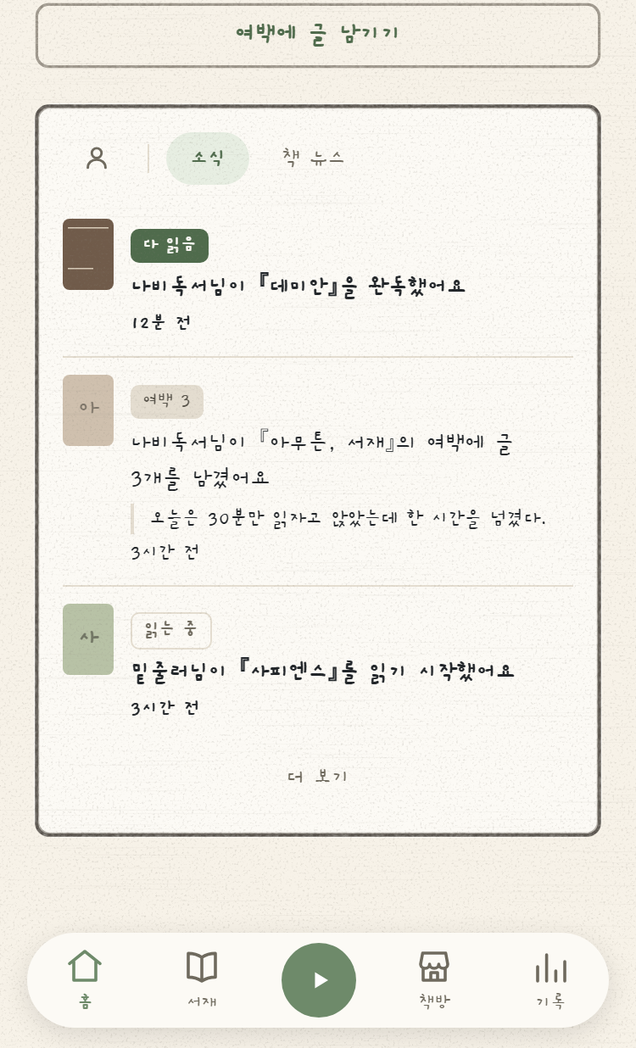
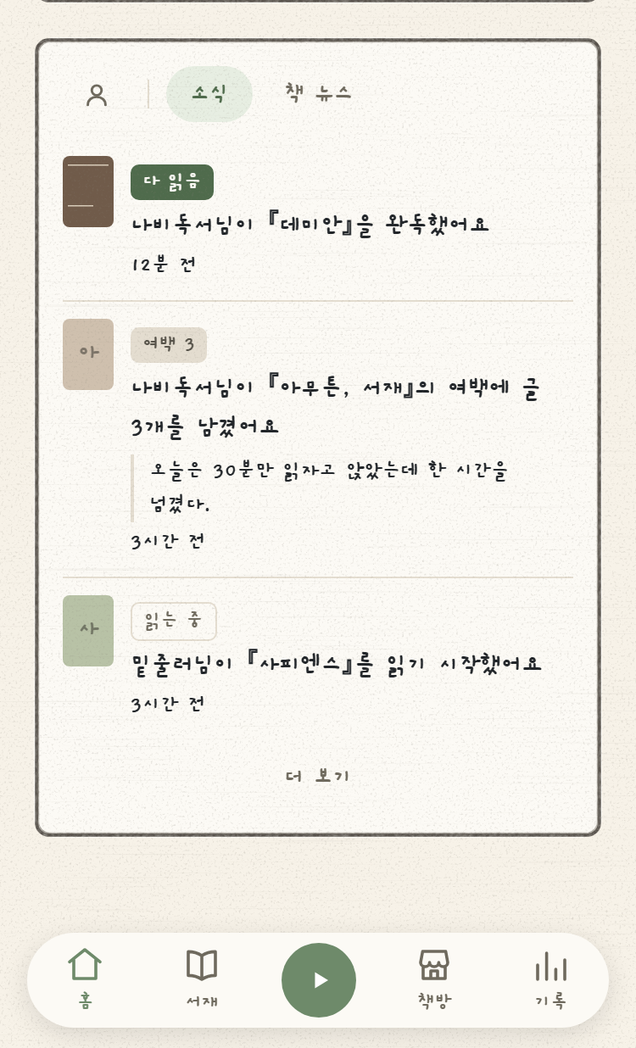
chore(미니앱): 스토어 스크린샷 6장을 한꺼번에 다시 찍는다
출시 직전 점검에서 6장 전부 낡은 것이 드러났다. 08-20 촬영분 이후 타이포
스케일 개편이 들어가 글자 크기·강조가 전 화면에서 바뀌었고, 거기에 여백 문
이사(01-home)와 「책 추가」 점선 칸 신설(03-library)이 얹혔다.

shoot.mjs로 세로 5장 + 가로 배너 1장을 규격대로 재촬영했다.

바이트째 그대로인 컷이 하나도 없는 건 처음이다 — 옛 재촬영은 늘 「안 바뀐
화면」이 증거로 남았는데(08-18은 03-library·05-goal, 08-20은 01-home·05-goal)
이번엔 전멸이라, 한 PR이 전 화면을 낡게 만들 수 있다는 사례가 됐다.

촬영기는 안 고쳤다 — 「책 추가하기」 버튼을 걷은 변경이 shoot.mjs를 깨뜨릴
자리였지만, 이 스크립트는 그 버튼을 누른 적이 없고(서재는 상태 탭을 기준선으로
잡는다) 셀렉터가 깨지면 조용히 넘어가지 않고 죽게 돼 있어 6장 전부 정상
촬영됐다.

「출시 직전 점검」이 낡음을 잡은 게 5회째다.

Session-Model: claude-opus-5

diff --git a/claude-docs/changelog.md b/claude-docs/changelog.md
@@ -768,3 +768,4 @@
 | 2026-08-21 | **ops(미니앱): 토스가 8/25에 미니앱 주소를 옮긴다 — CORS 허용 오리진 선반영** — 콘솔 공지(「8월 25일부터 미니앱 주소가 바뀌어요」)로 알았다: `web`·`private-web` → `apps`·`private-apps`. 우리 CORS는 `SecurityConfig.miniappCorsSource()`가 `setAllowedOrigins`를 쓰므로 **문자 그대로 일치**해야 하고, 그냥 뒀으면 8/25에 미니앱의 **모든 API 호출이 403**이 됐다. 공지 당일 운영에 프리플라이트를 던져 실측했다 — 새 오리진 **403 Forbidden**, 옛 오리진 200(추측이 아니라 측정으로 확정). **코드 변경 0**: SSM `/booktimer/MINIAPP_ALLOWED_ORIGINS`를 신·구 **4개 병기**(v2→v3)로 올리고 재배포하니 넷 다 200, 통제군 `evil.example.com`은 403 유지 = 전면 개방이 아님도 확인. ⚠ **값만 바꾸면 안 먹는다** — `.env`는 배포 때 `deploy/render-env.sh`가 SSM에서 다시 렌더하므로 **SSM 수정 + 재배포가 한 세트**다. 옛 주소를 남긴 건 지금 서빙이 아직 `web`이라서 — 양쪽이 열려 있어 전환 순간에 끊기는 구간이 없다(8/25 이후 옛 2개 정리는 plan.md 백로그 ⬜). 코드 전체에 미니앱 주소가 박힌 곳이 0이라 폭발 반경은 CORS 하나였다. ⚠ **오리진은 채널마다 다를 뿐 아니라 토스가 도메인을 통째로 옮기기도 한다** — 콘솔 공지 배너를 흘려보내면 그날 앱이 죽는다. |
 | 2026-08-21 | **feat(미니앱): 서재의 「책 추가하기」 버튼을 걷고 캐러셀 0번 칸으로 — 홈의 「책 없이」와 같은 부품** — 사용자 지시(「서재에서 책 추가 버튼을 없애고 홈의 책 없이 측정 디자인을 차용하자」). 버튼은 여백 박스 **아래 스크롤 끝**이라 책을 훑다가 닿기까지 멀었고, 「가운데 온 것이 곧 대상」이라는 캐러셀 문법 밖의 갈래였다. `BookCarousel`의 `noBookCard: boolean`을 **`leadCard: LeadCard | null`로 일반화**해(문구만 갈아 끼운다) 두 화면이 **「0번은 언제나 특수 칸」** 한 문장으로 통일된다 — 새 부품 0개. 칸은 **맨 앞**(홈과 같은 규약; 「맨 뒤」도 검토했으나 규약을 화면마다 가르지 않는 쪽을 택했다). ⚠ **`null`이 이미 다른 뜻이었다**: `resolveSelected(rows, null)`은 「첫 책으로 떨어져라」라, 그대로 두면 칸을 고르는 순간 첫 책으로 튕긴다. 홈이 먼저 푼 구분을 가져와 `selectedId`를 세 값(`id`·`null`=칸을 고름·`undefined`=아직 안 고름)으로 넓혔다. ⚠ **홈의 0번과 뜻이 다르다**: 홈은 측정 대상의 한 갈래(그 자체가 값)인데 서재는 검색 화면으로 가는 **문**이다 — 그래서 칸이 가운데면 아래가 통째로 갈린다(손잡이 하나 · 여백 박스 숨김). 안 갈면 다른 책의 여백을 이 칸의 것으로 읽는다. ⚠ **버튼을 지우면 코치마크가 대상을 잃는다**: 「게이트와 안내는 한 몸」이 `AddBookButton`의 설계였어서 `Coachmark`에 `enabled`를 더해 그 성질째 캐러셀로 옮겼다. ⚠ **검색 꺼짐 폴백은 남긴다**: 0권 + 검색 꺼짐이면 세울 것이 없어 옛 문장이 없으면 빈 화면이 된다(테스트로 고정). 목 모드 실측(390×844): 0번이 점선 칸(84×118), 진입 시 첫 책이 가운데, 「책 추가하기」 0개, 칸 선택 시 제목·부제·손잡이 전환, 빈 탭은 안내 + 카드 한 장 캐러셀(실제 삭제로 확인), 첫 진입 덮개 1개(탭바뿐), 콘솔 에러 0. 936건 그린 · tsc 클린. ⚠ **남은 흠**: 칸이 가운데일 때 아래가 364px(화면의 43%) 빈다 — 「책 추가 페이지가 비어 보인다」와 같은 클래스이고, 「출렁임 -103px」이라는 측정이 이걸 가렸다(콘텐츠가 짧아진 값이지 화면이 비는 값이 아니다). 지나가는 상태 + 한 탭 뒤 화면이 이미 추천으로 차 있어 중복을 피해 그대로 두기로 합의. |
 | 2026-08-21 | **fix: 추천 줄 하나가 카드를 통째로 먹었다 — 줄 높이가 「가정」일 뿐이었다** — 실기기 제보(「책 추천 박스에 이런 책이 보인다」). 「노벨라33 세트 - 전33권」의 저자 필드에 이름이 40개 넘게 들어와 목록 한 줄이 세로 **약 900px**로 자랐다. ⚠ **원인은 세트가 아니라 무제한 줄 높이다**: 카드 창은 `calc(5 × --reco-row + --reco-peek)` = 「75px짜리 줄 5개 + 반 줄」인데 줄 자체엔 제한이 없어서, 줄 하나가 창보다 커지는 순간 그 계산도 반 줄이 말하던 「더 있다」 신호도 함께 죽는다 — 세트를 걸러도 제목·저자가 긴 다음 책이 그대로 재발한다. 세 방향(필터/축약/줄 고정)을 시안으로 비교해 **셋 다** 넣었다. ① **세트 필터**(`BookSetTitle` 신설): `BookService.search()` 한 곳이면 된다 — 검색 API와 추천이 둘 다 그 길목을 지난다. ② **저자 축약**(`WriterName.summary()`): 대표 글쓴이 + 「외 N명」, N은 글쓴이만(옮긴이·그림 제외는 기존 `lead()` 규칙 재사용 — 새 로직 0줄). ③ **줄 고정**: 제목·저자 각 한 줄 말줄임. ⚠ **저자 축약을 `author`에 하면 DB가 오염된다** — 「담기」가 검색 행의 `author`를 그대로 되돌려 저장하므로 축약본을 그 자리에 넣으면 책 저자가 「미겔 데 세르반떼스 외 32명」으로 영구 저장된다. 표시용 `authorShort`를 따로 두고 원문은 손대지 않았다(회귀 가드 테스트 포함). ⚠ **세트 필터의 진짜 비용은 오탐**: 걸러진 책은 검색에서 사라져 가진 책을 담을 길이 막힌다 → 판정을 좁게(「전N권」은 숫자를 요구해 『셜록 홈즈 전집』을 통과) + **검색어가 세트를 찾으면 아예 적용하지 않는다**(유일한 탈출구). ⚠ **`-webkit-box` line-clamp는 쓰지 않는다** — TDS `Text`가 인라인 `display`를 덮어써 죽는다. `display:block` + `nowrap + ellipsis`가 이 레포에서 세 번 검증된 방식. ⚠ **목 픽스처가 전부 얌전해서 목 모드 전 경로 검증을 통과했다** — 데이터가 깨뜨리는 버그는 데이터가 얌전하면 원리상 안 잡힌다. `dev-mock` 추천 첫 줄을 일부러 비정상값으로 박아 뒀다. 목 모드 실측: 줄 높이 74/75px 균일(옛 900px), 창 415=5×75+40, 안쪽 스크롤 522>415, 반 줄 생존, 제목 실제 말줄임(scrollW 387 > clientW 269), 검색 결과 행도 동일 적용, 콘솔 에러 0. 서버 + 미니앱 940건 그린 · tsc 클린. |
+| 2026-08-21 | **chore(미니앱): 스토어 스크린샷 6장을 한꺼번에 다시 찍는다** — 출시 직전 점검에서 6장 **전부** 낡은 것이 드러났다. 08-20 촬영분 이후 **타이포 스케일 개편**이 들어가 글자 크기·강조가 전 화면에서 바뀌었고, 거기에 여백 문 이사(`01-home`)와 「책 추가」 점선 칸 신설(`03-library`)이 얹혔다. `shoot.mjs`로 세로 5장 + 가로 배너 1장을 규격대로 재촬영. **바이트째 그대로인 컷이 하나도 없는 건 처음이다** — 옛 재촬영은 늘 「안 바뀐 화면」이 증거로 남았는데(08-18은 `03-library`·`05-goal`, 08-20은 `01-home`·`05-goal`) 이번엔 전멸이라, **한 PR이 전 화면을 낡게 만들 수 있다**는 사례가 됐다(타이포·팔레트 같은 전역 변경은 그 자체로 재촬영 트리거). 촬영기는 안 고쳤다 — 「책 추가하기」 버튼을 걷은 변경이 `shoot.mjs`를 깨뜨릴 자리였지만 이 스크립트는 그 버튼을 누른 적이 없고(서재는 상태 탭을 기준선으로 잡는다) 셀렉터가 깨지면 조용히 넘어가지 않고 **죽게** 돼 있어 6장 전부 정상 촬영됐다. ⚠ **「출시 직전 점검」이 낡음을 잡은 게 5회째** — 화면을 바꾼 PR에서 sweep 하는 규율은 다섯 번 다 안 먹혔다. |

diff --git a/plan.md b/plan.md
@@ -1376,6 +1376,18 @@ SNS 토대(팔로우·공개범위·프로필)가 깔려 있어 ②의 사용자
   코드 전체에 미니앱 주소가 박힌 곳이 0이라 폭발 반경은 CORS 하나였다(딥링크·템플릿 grep 확인).
   ⚠ **오리진은 채널마다 다를 뿐 아니라 토스가 통째로 옮기기도 한다** — 콘솔 공지 배너를 흘려보내면 그날 앱이 죽는다.
   ⬜ **8/25 이후 옛 2개(`web`·`private-web`) 정리** — 지금 지우면 당장 깨지니 전환을 눈으로 확인한 뒤에.
+- **스토어 스크린샷 재촬영 — 6장이 한꺼번에 낡았다** ✅ (2026-08-21, 출시 직전 점검) — 08-20 촬영분 이후
+  **타이포 스케일 개편**이 들어가 글자 크기·강조가 **전 화면에서** 바뀌었다. 여기에 여백 문 이사(`01-home`)와
+  「책 추가」 점선 칸 신설(`03-library`)이 얹혔다. `shoot.mjs`로 6장 재촬영.
+  - **바이트째 그대로인 컷이 하나도 없다 — 처음이다.** 옛 재촬영은 늘 「안 바뀐 화면」이 증거로 남았는데
+    (08-18은 `03-library`·`05-goal`, 08-20은 `01-home`·`05-goal`), 이번엔 6장 전부 바뀌었다. **한 PR이 전 화면을
+    낡게 만들 수 있다**는 뜻이라, 앞으로 타이포·팔레트처럼 전역을 건드리는 변경은 그 자체로 재촬영 트리거다.
+  - **촬영기는 안 고쳤다** — 「책 추가하기」 버튼을 걷은 변경이 `shoot.mjs`를 깨뜨릴 자리였지만, 이 스크립트는
+    그 버튼을 누른 적이 없고(서재는 **상태 탭을 기준선**으로 잡는다) 셀렉터가 깨지면 조용히 넘어가지 않고
+    **죽게** 돼 있다 — 6장 전부 정상 촬영으로 그 설계가 값을 했다.
+  - ⚠ **「출시 직전 점검」이 또 낡음을 잡았다(5회째).** 화면을 바꾼 PR에서 sweep 하는 규율은 다섯 번 다 안 먹혔다.
+  - **출시노트도 함께 썼다**(콘솔 붙여넣기용, PR 밖) — 범위는 직전 출시분 `01a0159c`(08-19) 이후 미니앱 PR 20건.
+    「심사 참고」 두 줄(탭바 무변경 · 사용법 안내는 수동 시작)을 붙였다 — 08-17·08-18 반려가 정확히 그 두 항목이었다.
 - **리워드 광고(IAA) — "밀린 하루 지우개"** ✅ 출시 (2026-08-11 설계·구현·출시 — 하루에 종결) — 광고 시청 1회로 빠뜨린 날 하나의 부채를 0 처리.
   **용서 장치와 수익화를 한 기능으로 겸한다** — thesis의 알려진 미비점(부채가 밀리면 죄책감 → 이탈)을 자발적 시청 포맷으로
   푼다. 진입점은 홈 부채 문구 옆 버튼 1개(부채가 없으면 광고의 존재 자체가 안 보인다 — 입문자 압박 0).
